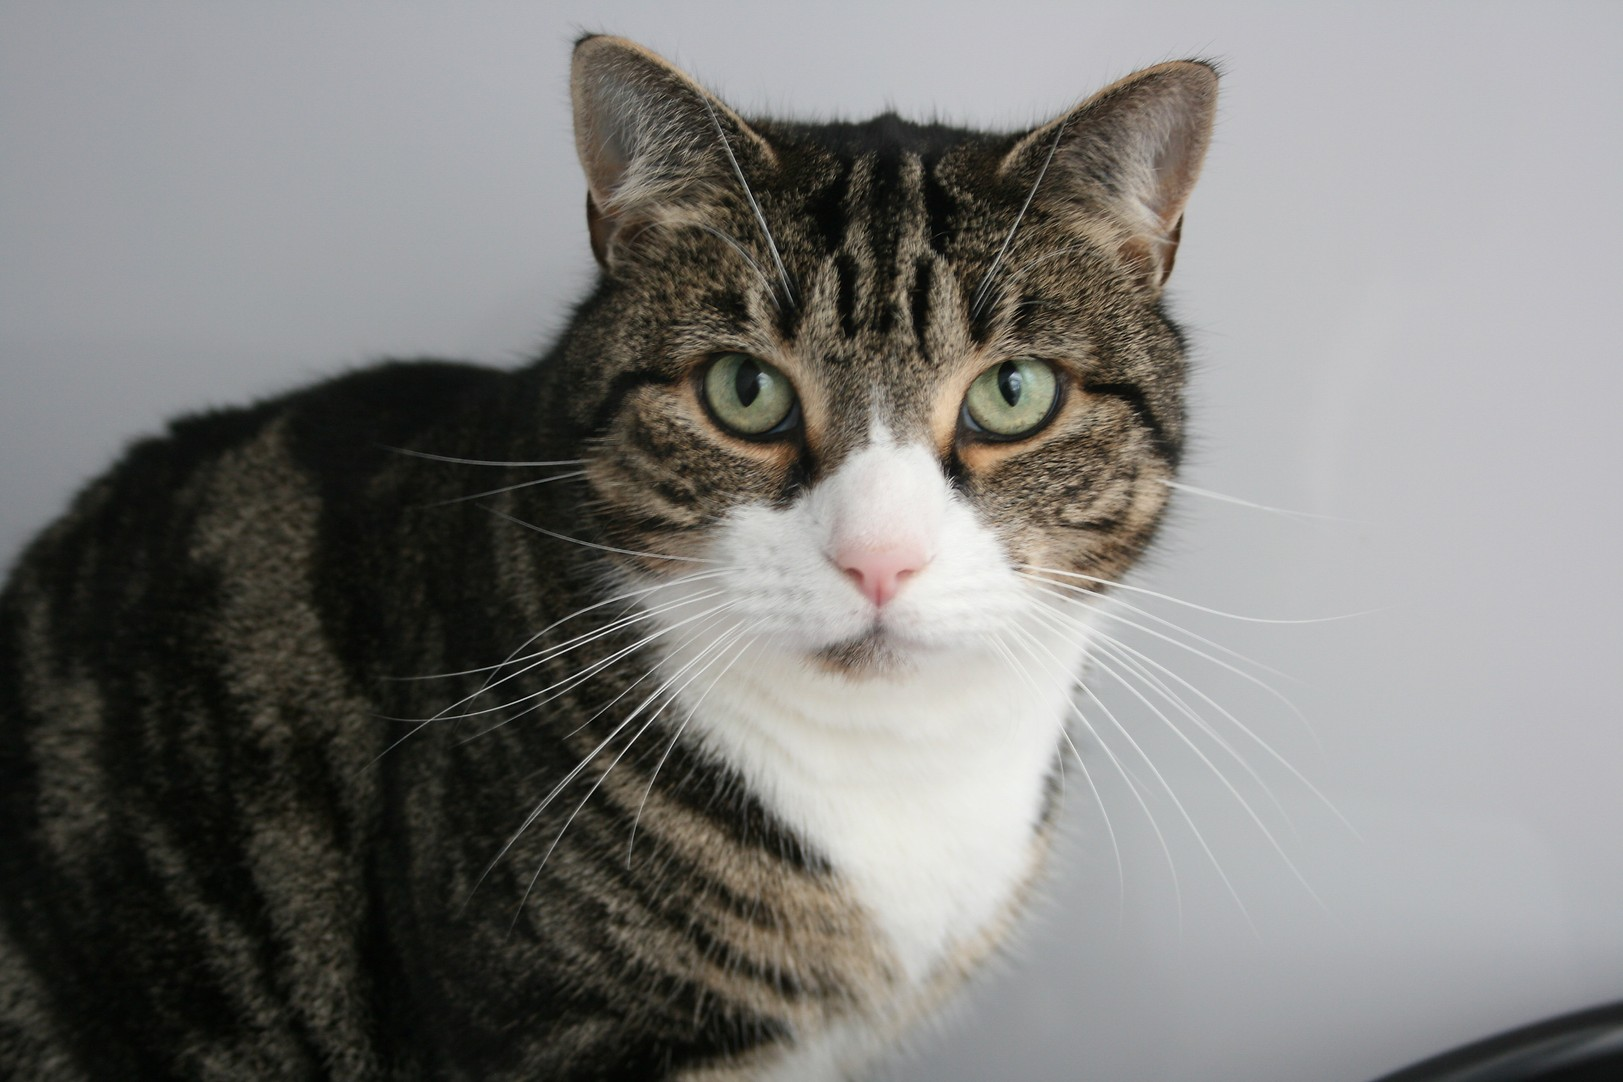
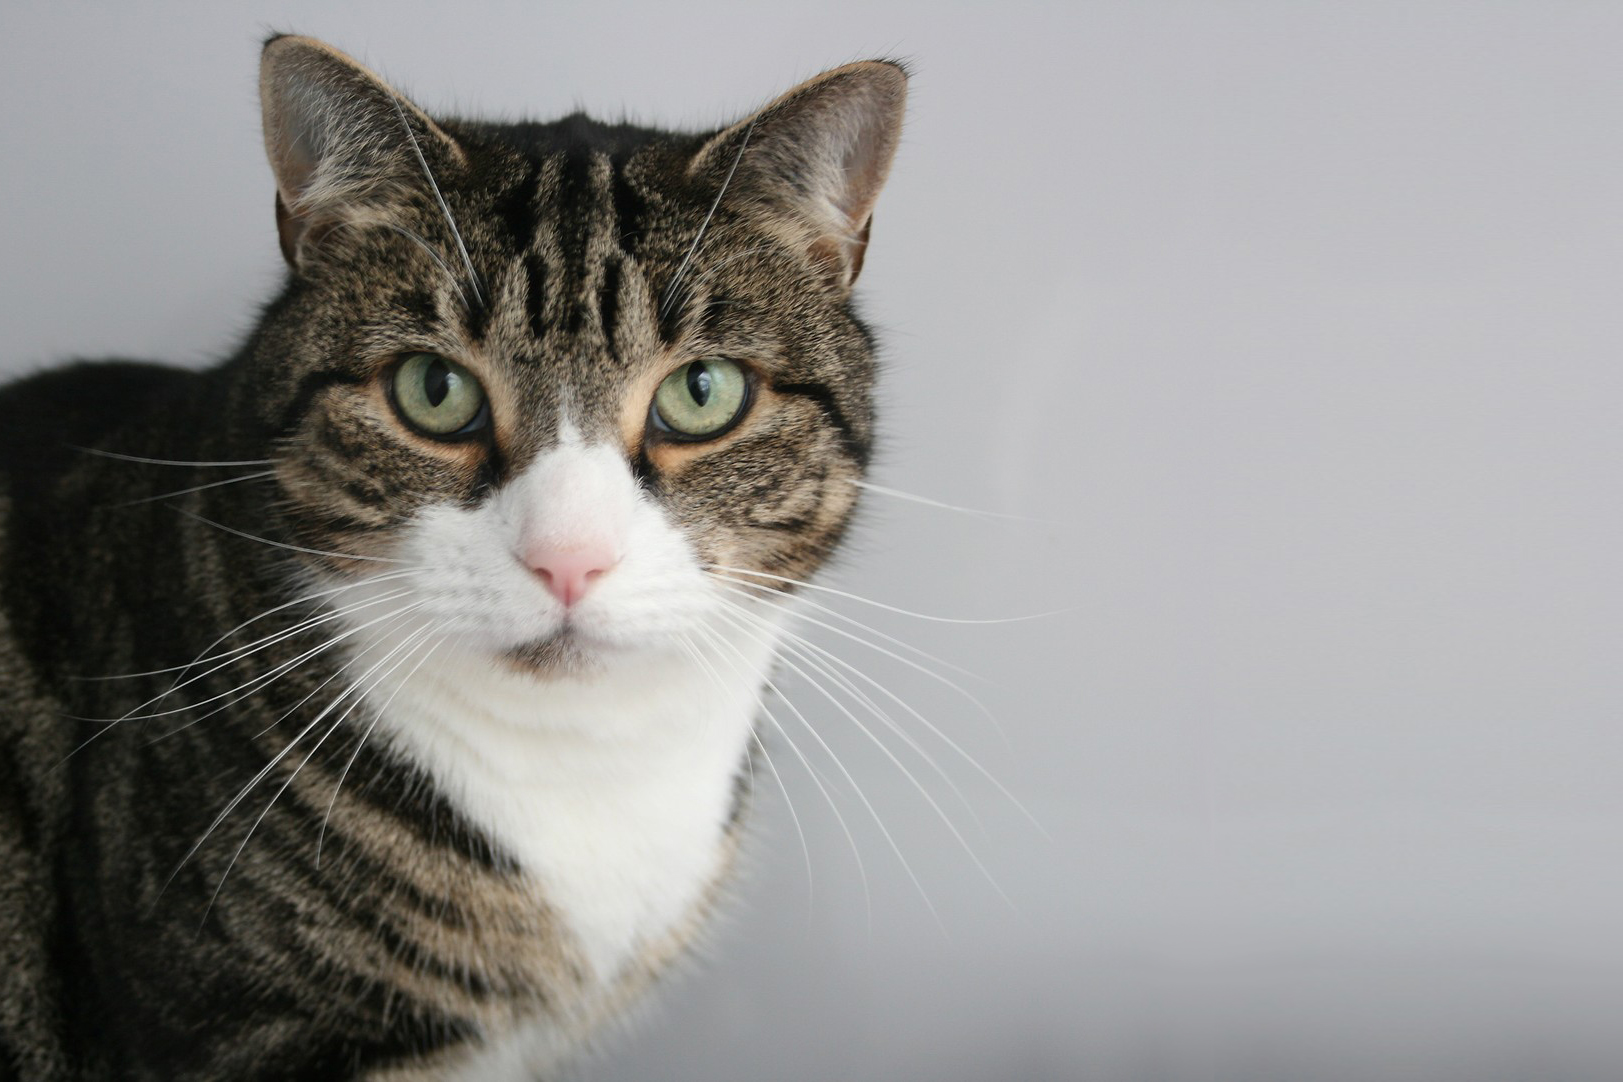
changed hero bg to carousel

diff --git a/index.html b/index.html
@@ -15,7 +15,40 @@
 </head>
 <body>
     <section id="banner">
-        <div id="bg-full"></div>
+
+        <div id="bg-full">
+
+            <!-- START OF CAROUSEL -->
+            <div class="container-fluid">
+                <div class="row">
+                    <div class="col px-0">
+                        <div id="hero-carousel" class="carousel slide" data-ride="carousel" data-interval="3000" data-pause="false">
+            <!-- SLIDESHOW CONTENT -->
+                            <div class="hero-carousel-inner">
+                                <div class="carousel-item active">
+                                <img src="assets/images/gallery10.jpg" alt="cat">
+                                </div>
+                                <div class="carousel-item">
+                                <img src="assets/images/gallery7.jpg" alt="cat">
+                                </div>
+                                <div class="carousel-item">
+                                <img src="assets/images/about3.jpg" alt="cat">
+                                </div>
+                                <div class="carousel-item">
+                                <img src="assets/images/gallery3.jpg" alt="cat">
+                                </div>
+                                <div class="carousel-item">
+                                    <img src="assets/images/gallery2.jpg" alt="cat">
+                                    </div>
+                            </div>
+                        </div>
+                    </div>
+                </div>
+            </div>
+        </div>
+
+
+
         <!-- START OF NAV BAR -->
         <div id="nav-fluid" class="container-fluid">
             <nav class="navbar navbar-expand-md navbar-dark">

diff --git a/assets/style.css b/assets/style.css
@@ -2,12 +2,29 @@ html {
     scroll-behavior: smooth;
 }
 
-#bg-full {
-    background: linear-gradient( rgba(0, 0, 0, 0.349), rgba(0, 0, 0, 0) ), url("images/banner-img.JPG") no-repeat left top;
-    background-size: cover;
+.hero-carousel-inner {
+    width: 100vw;
     height: 100vh;
-    top: 60px;
+    text-align: center;
 }
+
+.hero-carousel-inner img {
+    width: 100vw;
+    height: 100vh;
+    object-fit: cover;
+}
+
+/* Source: https://stackoverflow.com/a/44463901/4595147 */
+.hero-carousel-inner:after {
+    content:"";
+    position:absolute;
+    top:0;
+    bottom:0;
+    left:0;
+    right:0;
+    background:linear-gradient(rgba(0, 0, 0, 0.639), rgba(0, 0, 0, 0));
+}
+
 
 #nav-fluid > .navbar > .fas, .fa-cat:hover {
     transform:rotate(10deg);
@@ -189,6 +206,14 @@ footer .social-icons {
     #bg-full {
         height: 50vh;
         position: relative;
+    }
+
+    .hero-carousel-inner img {
+        height: 50vh;
+    }
+
+    .hero-carousel-inner {
+        height: 50vh;
     }
 
     #nav-fluid {
